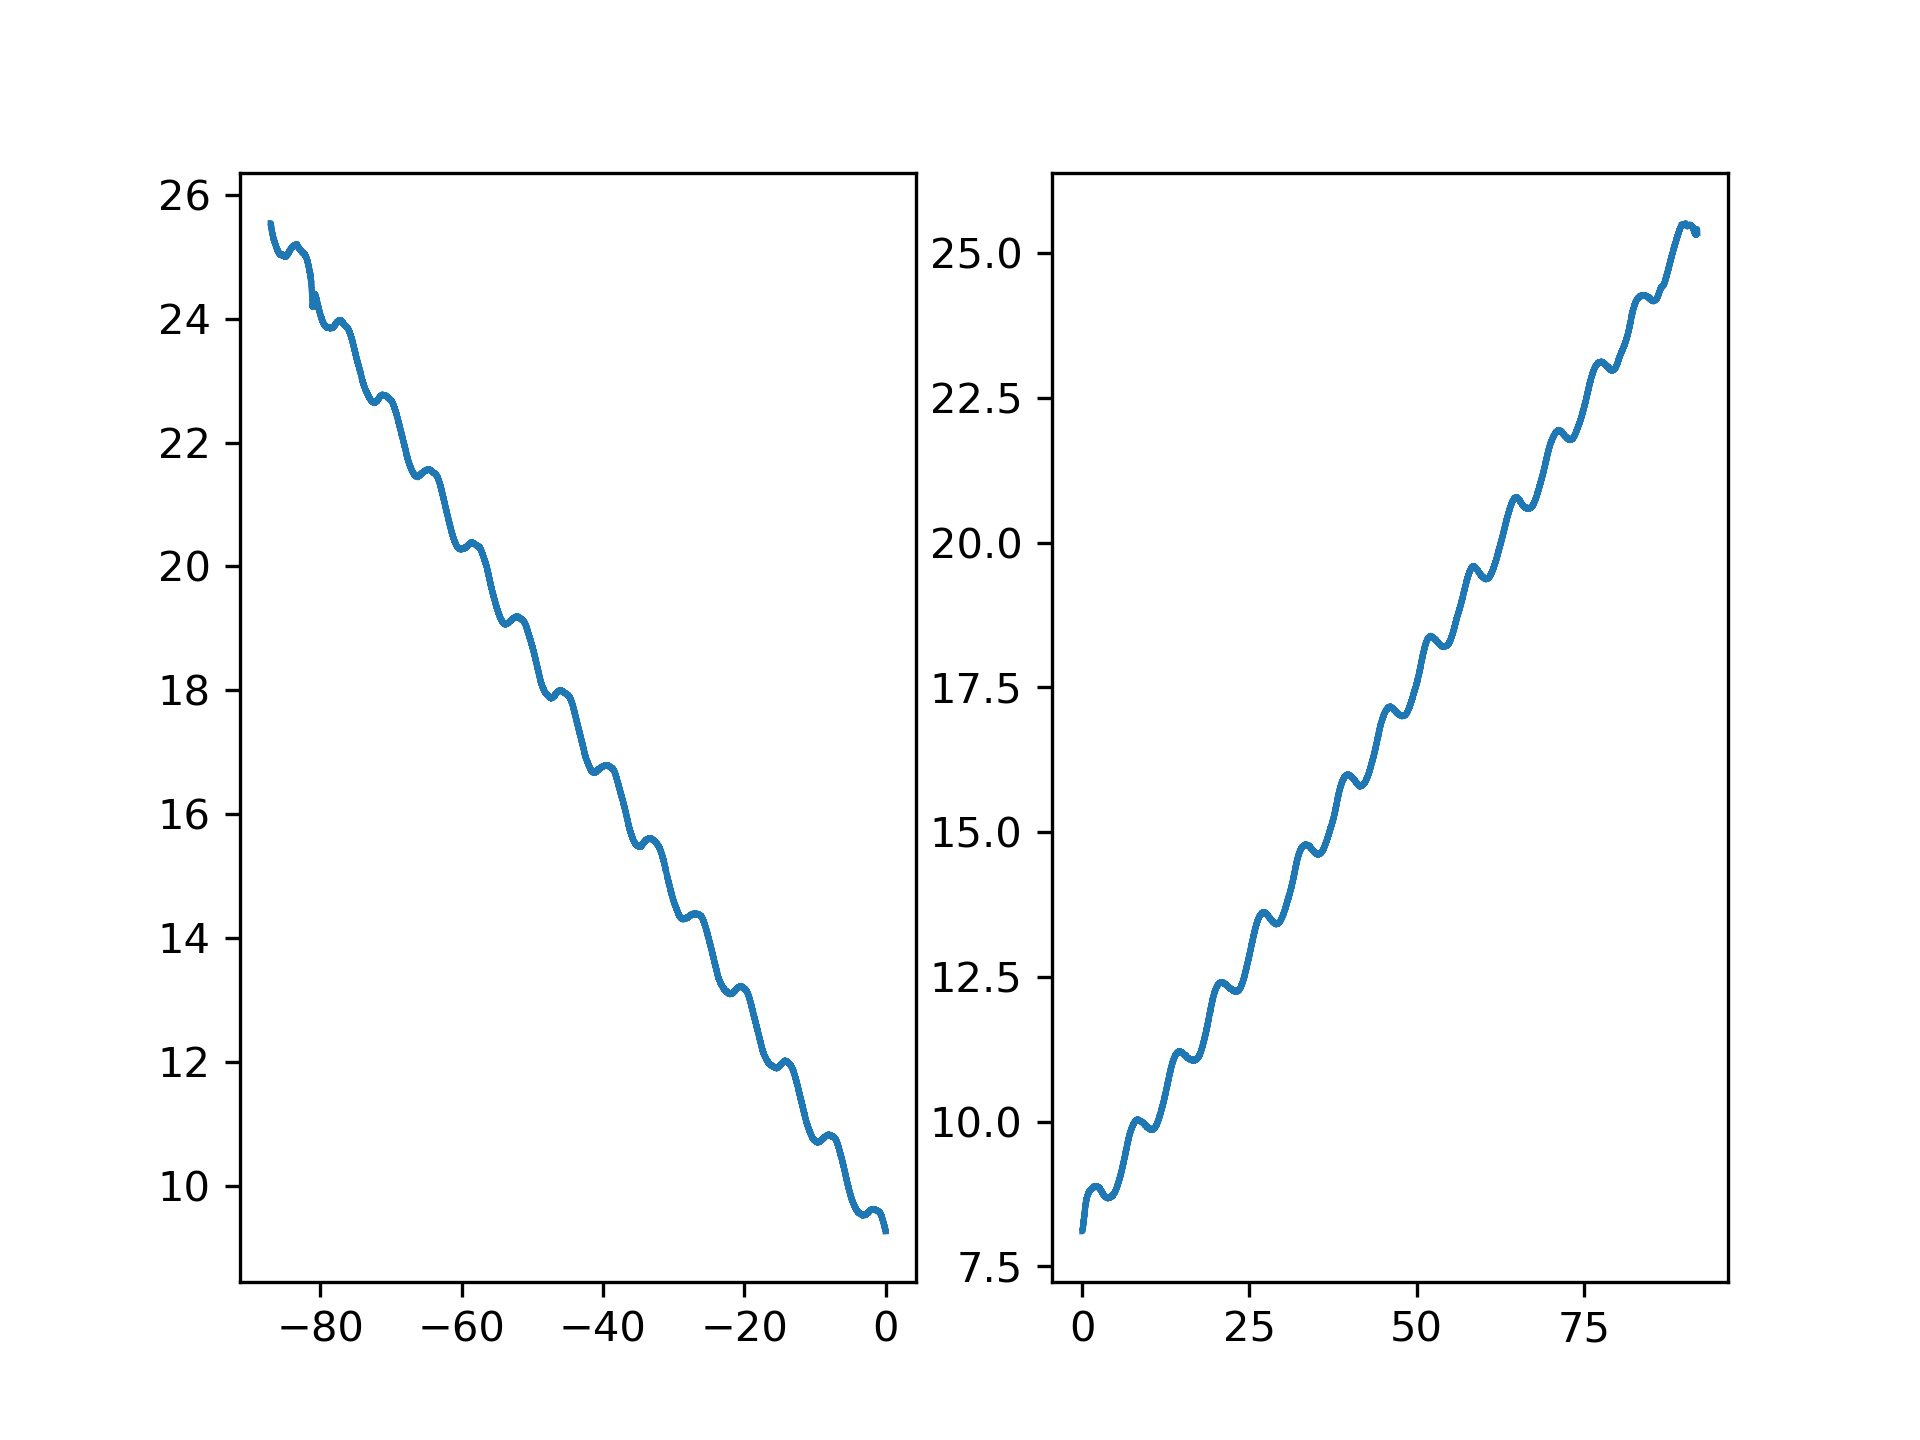
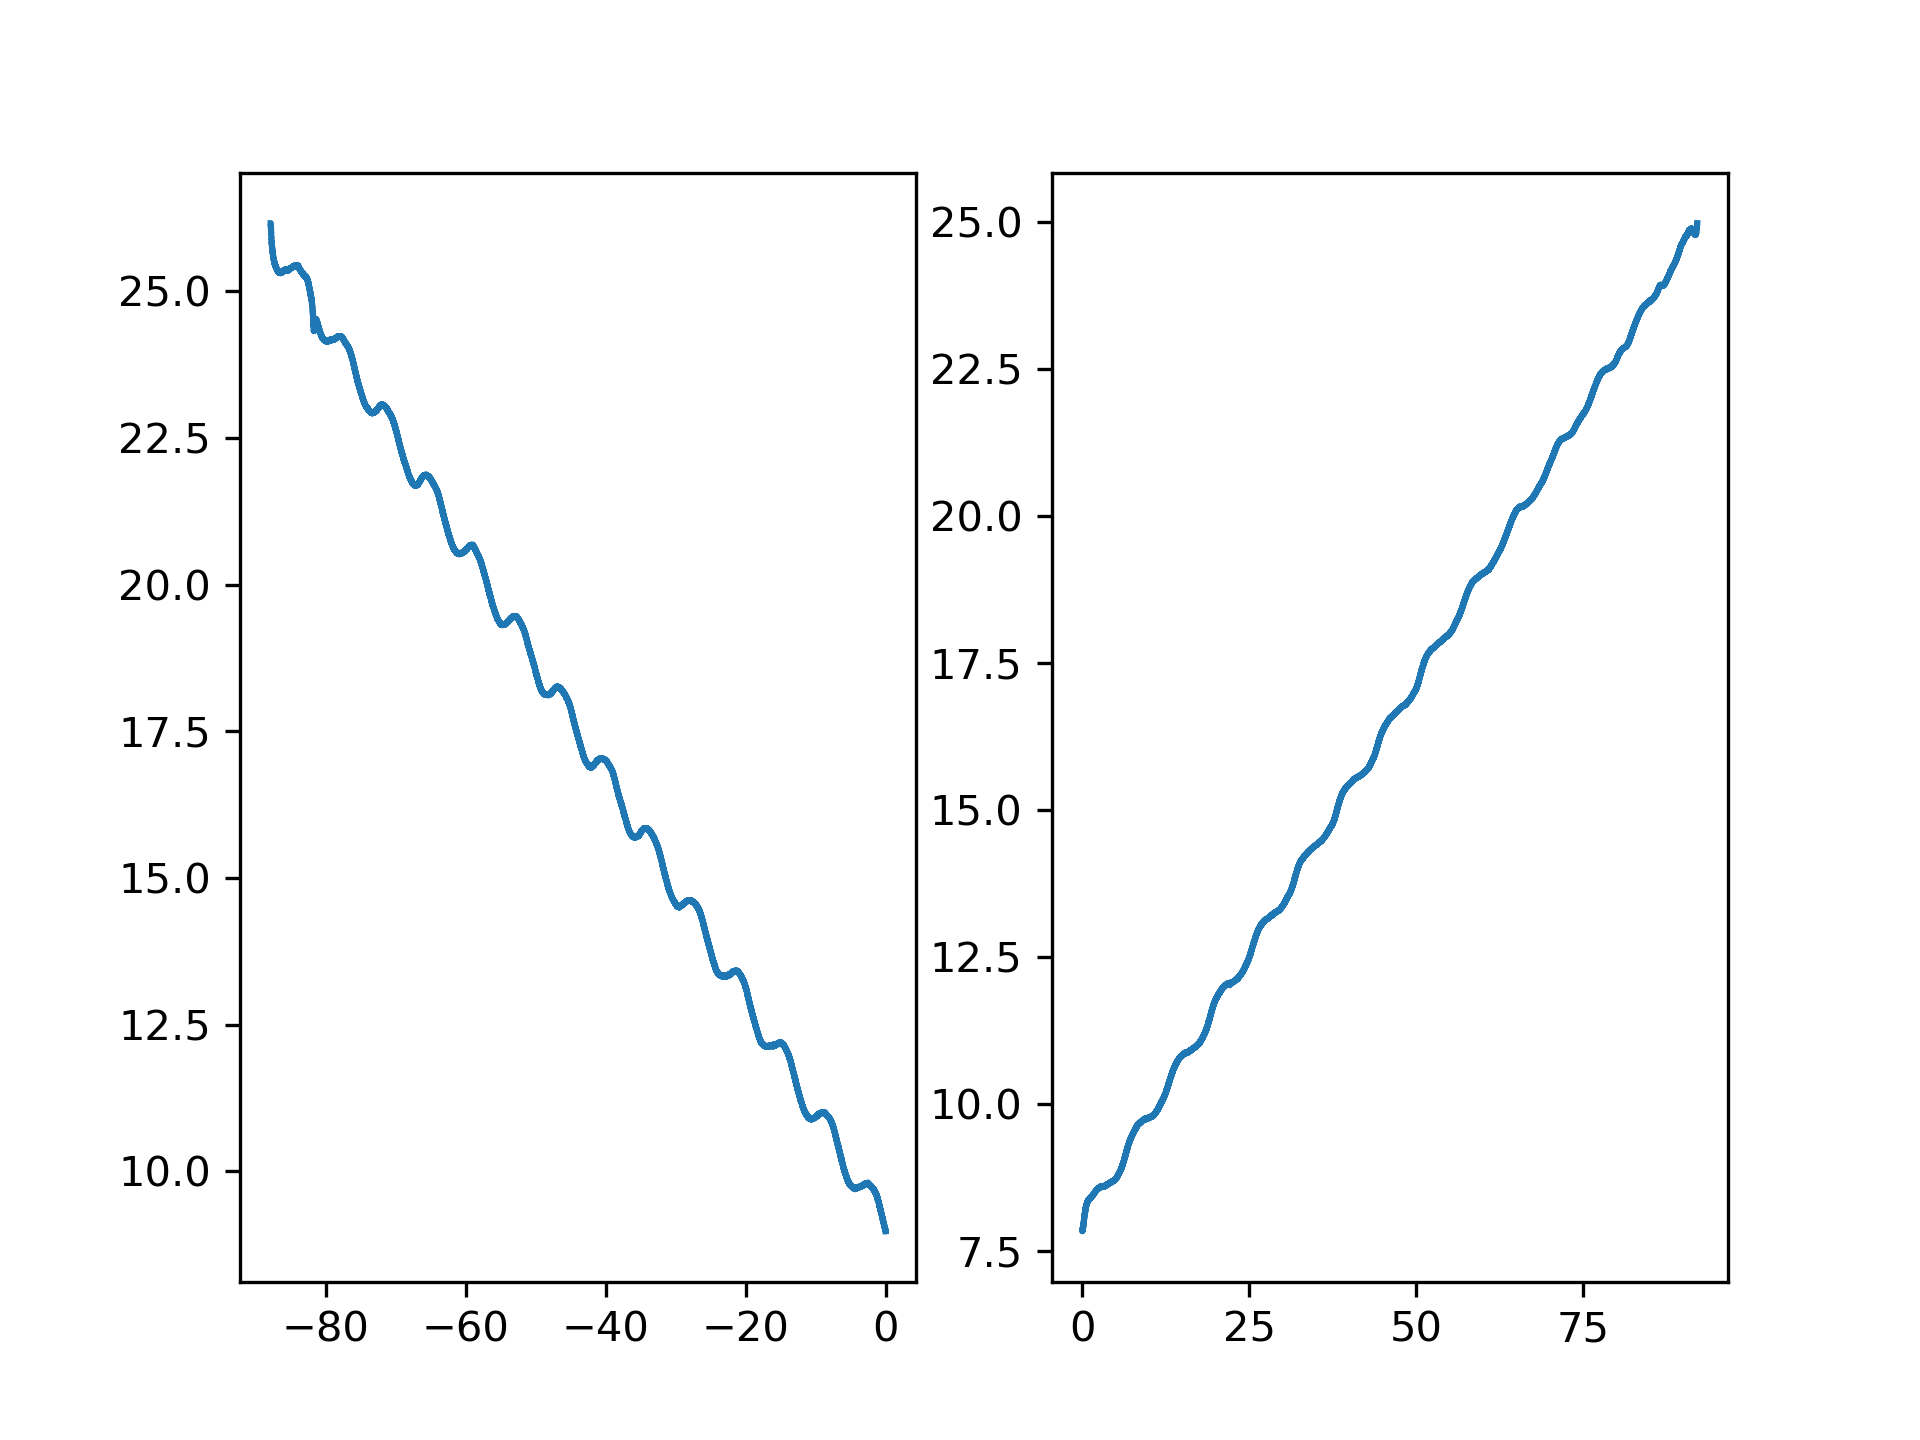
Bug Hunting

diff --git a/sectorImage/core/stitcher.py b/sectorImage/core/stitcher.py
@@ -86,20 +86,29 @@ class Stitcher:
 
         segments = []
         ampstart = 0
+        figg = plt.figure()
+        axx = figg.add_subplot(111)
         for i, image in enumerate(self.images[::-1]):
-            stepsize_angles = (image.angles[-1] - image.angles[0]) / len(image.angles)
-            stepsize_radii = (image.radii[-1] - image.radii[0]) / len(image.radii)
+            # stepsize_angles = (image.angles[-1] - image.angles[0]) / len(image.angles)
+            # stepsize_radii = (image.radii[-1] - image.radii[0]) / len(image.radii)
+
             if image.start[1] > ampstart:
                 # rstart = image.start[0][1] * stepsize_radii
                 # pstart = (image.start[0][0] * stepsize_angles) + image.angles[0] + (i * 2 * np.pi / len(self.fns))
-                print(image.start[0][0])
-                pstart = (image.angles[image.start[0][0]] + (i * 2 * np.pi / len(self.fns)))
-                print(pstart)
+                pstart = image.angles[image.start[0][0]] + (i * 2 * np.pi / len(self.fns))
+
                 ampstart = image.start[1]
+                print(image.start)
+                print(ampstart)
             for j, coord in enumerate(zip(image.r, image.phi)):
                 rs, phis = coord
+                if phis[0] > phis[-1]:
+                    phis = phis[::-1]
+                    rs = rs[::-1]
                 # phis = (np.array(phis) * stepsize_angles) + image.angles[0] + (i * 2 * np.pi / len(self.fns))
+                axx.plot(phis)
                 phis = image.angles[np.array(phis)] + (i * 2 * np.pi / len(self.fns))
+
                 #rs = (np.array(rs) * stepsize_radii) + image.radii[0]
                 rs = image.radii[np.array(rs)]
                 s = (phis, rs, i, j)
@@ -108,6 +117,7 @@ class Stitcher:
                     ax.plot(phis, rs, lw=0.5)
             # segments.append(img_segs)
         self.startAngle = pstart
+        figg.savefig(__location__ + '/../img/out/debug.png', dpi=300)
         if plot:
             ax.set_xlabel('Angle [rad]')
             ax.set_ylabel('Radius [px]')
@@ -266,6 +276,7 @@ class Stitcher:
             compR = np.empty(0)
             chirality *= -1
             for i, b in enumerate(bands):
+                print(len(b[0]))
                 compR = np.append(compR, b[1])
                 phi = b[0] + i * chirality * 2 * np.pi
                 compP = np.append(compP, phi)
@@ -274,13 +285,27 @@ class Stitcher:
 
         compR = compR[order] * scale
         # Cut band start
-        start_idx = np.argmax(chirality * compP[::chirality] > self.startAngle)
         print(chirality)
         print(compP)
-        compP = compP[::chirality][start_idx:][::chirality]
+        plott = compP[:]
+
+        compP = chirality * compP[::chirality]
         print(compP)
-        compP -= compP[::chirality][0]
+        start_idx = np.argmax(compP > self.startAngle)
+        if start_idx == 0:
+            print('Unraveling Start Angle')
+            self.startAngle += 2 * np.pi
+            start_idx = np.argmax(compP > self.startAngle)
+        print(start_idx)
+        print(compP[start_idx - 1:start_idx + 2])
+        print(self.startAngle)
+        compP = compP[start_idx:]
         print(compP)
+        compP -= compP[0]
+        compP = chirality * compP[::chirality]
+        print(compP)
+        #compP = compP[::chirality][start_idx:][::chirality]
+        #compP -= compP[::chirality][0]
         compR = compR[::chirality][start_idx:][::chirality]
         print(compR)
 

diff --git a/sectorImage/core/image.py b/sectorImage/core/image.py
@@ -366,7 +366,7 @@ class Image:
             ax.set_aspect('auto')
             ax.set_xlabel('Radius [px]')
             ax.set_ylabel('Angle [idx]')
-            fig.savefig('img/out/filter.png', dpi=600, interpolation='none')
+            fig.savefig(__location__ + '/../img/out/filter' + str(self.id) + '.png', dpi=600, interpolation='none')
 
         # print('Features detected in', str(round(time.time() - t0, 2)), 's')
         return proc, start
